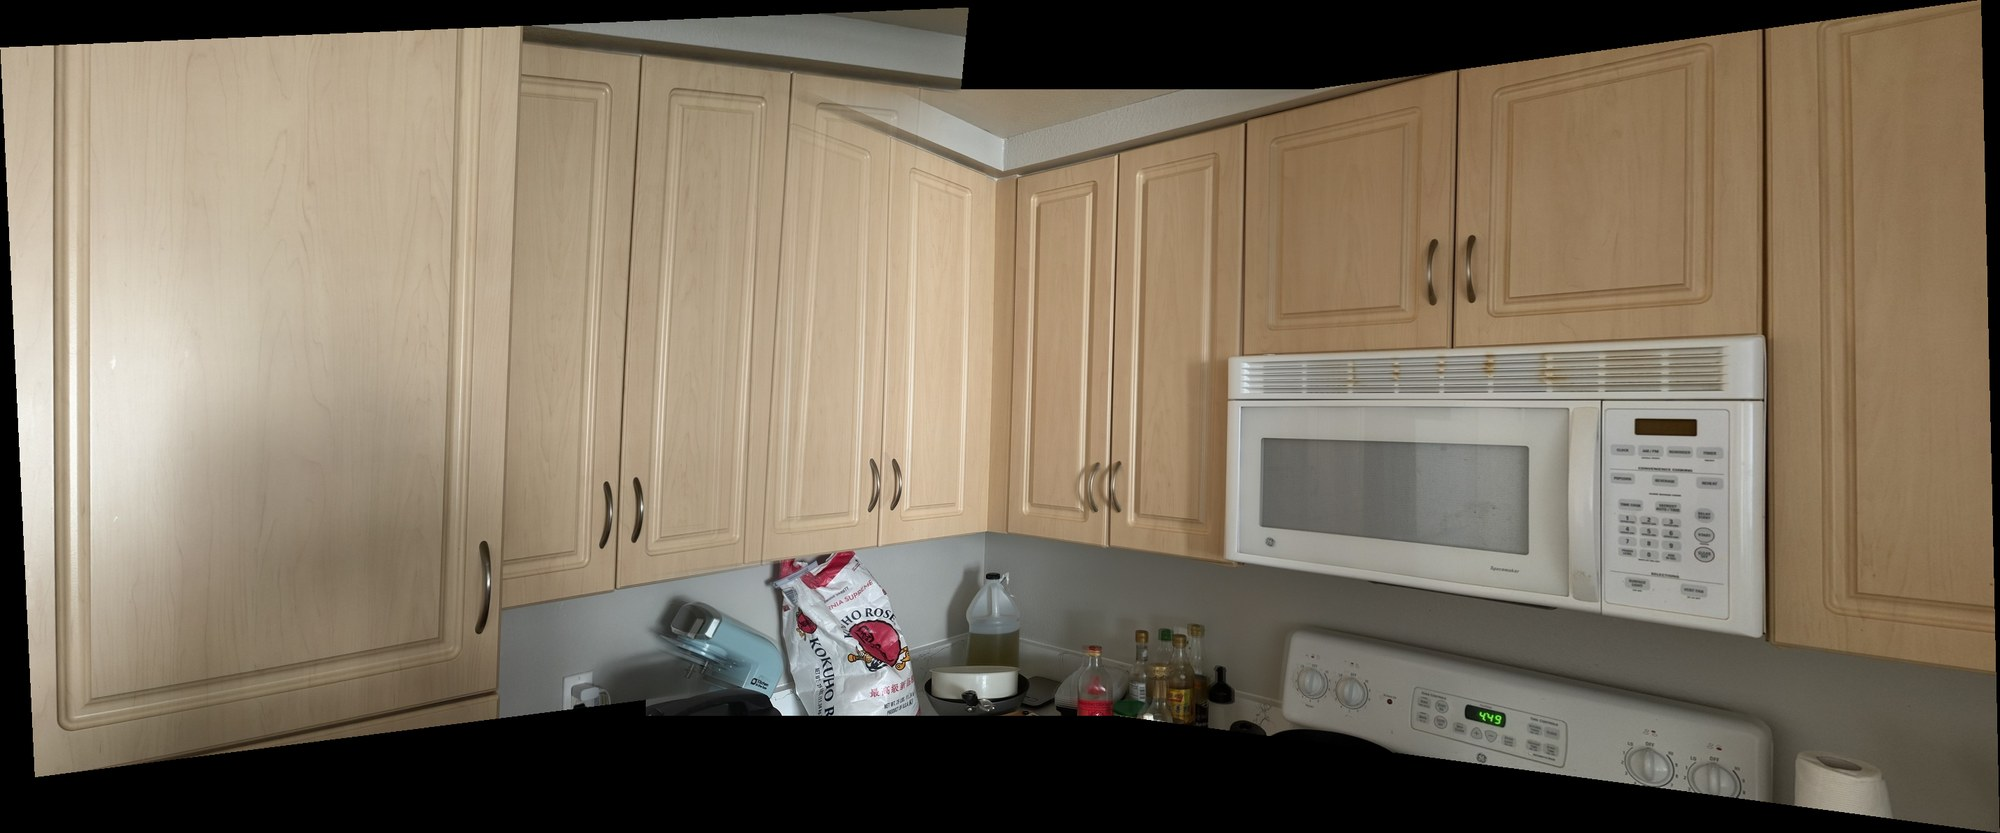
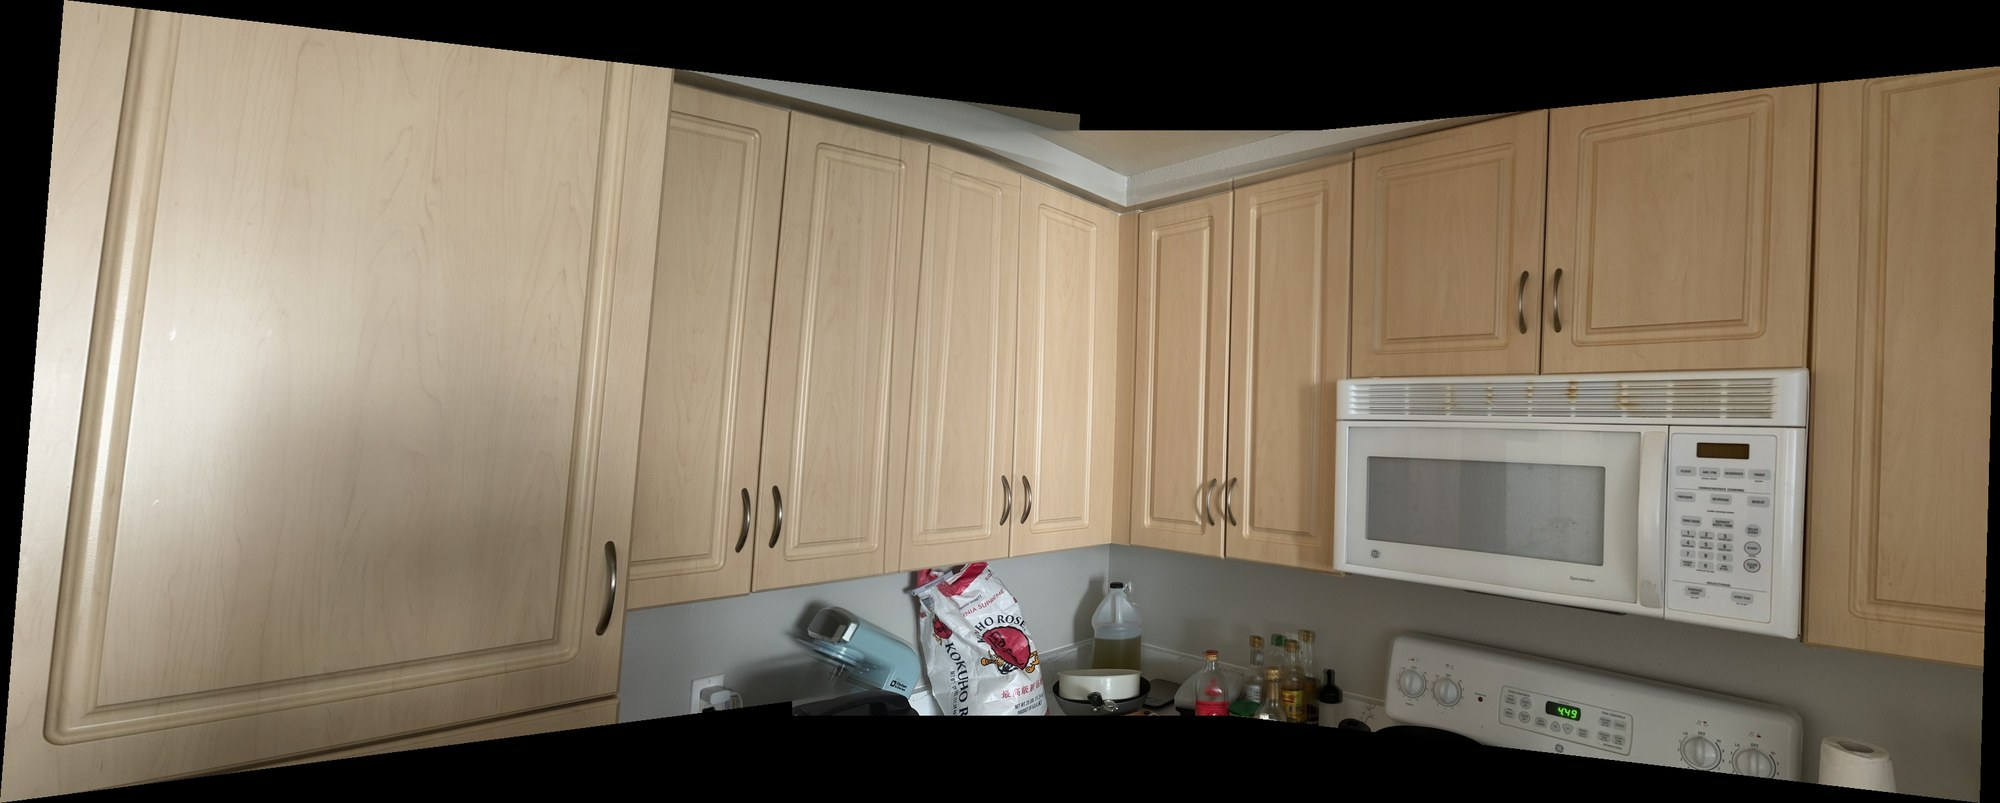
Project 4A: hand-picked correspondences

diff --git a/cs180/project4a/index.html b/cs180/project4a/index.html
@@ -89,9 +89,9 @@
 \[ \underbrace{\begin{bmatrix} x_1 & y_1 & 1 & 0 & 0 & 0 & -x_1x_1' & -y_1x_1' \\ 0 & 0 & 0 & x_1 & y_1 & 1 & -x_1y_1' & -y_1y_1' \\ & & & & \vdots & & & \\ x_n & y_n & 1 & 0 & 0 & 0 & -x_nx_n' & -y_nx_n' \\ 0 & 0 & 0 & x_n & y_n & 1 & -x_ny_n' & -y_ny_n' \end{bmatrix}}_{A \;(2n \times 8)} \begin{bmatrix} a \\ \vdots \\ h \end{bmatrix} = \underbrace{\begin{bmatrix} x_1' \\ y_1' \\ \vdots \\ x_n' \\ y_n' \end{bmatrix}}_{b} \]
 <figure class="wide"><img src="assets/mosaic2_left_center_points.jpg" alt="correspondences between the gate left and center images"></figure>
 <p>Next, for the real numbers, this is the full system \([A \mid b]\) for these 8 pairs:</p>
-\[ \left[\begin{array}{rrrrrrrr|r} 850.84 & 475.69 & 1 & 0 & 0 & 0 & -327539.37 & -183121.62 & 384.96 \\ 0 & 0 & 0 & 850.84 & 475.69 & 1 & -409756.04 & -229087.55 & 481.59 \\ 816.56 & 1135.06 & 1 & 0 & 0 & 0 & -250349.13 & -347998.05 & 306.59 \\ 0 & 0 & 0 & 816.56 & 1135.06 & 1 & -889764.60 & -1236818.13 & 1089.65 \\ 516.87 & 862.12 & 1 & 0 & 0 & 0 & -13924.48 & -23225.51 & 26.94 \\ 0 & 0 & 0 & 516.87 & 862.12 & 1 & -447423.35 & -746285.56 & 865.64 \\ 825.18 & 835.76 & 1 & 0 & 0 & 0 & -278803.57 & -282378.23 & 337.87 \\ 0 & 0 & 0 & 825.18 & 835.76 & 1 & -666151.31 & -674692.33 & 807.28 \\ 861.91 & 670.04 & 1 & 0 & 0 & 0 & -327672.32 & -254729.11 & 380.17 \\ 0 & 0 & 0 & 861.91 & 670.04 & 1 & -564275.24 & -438661.79 & 654.68 \\ 752.58 & 998.69 & 1 & 0 & 0 & 0 & -196746.99 & -261087.53 & 261.43 \\ 0 & 0 & 0 & 752.58 & 998.69 & 1 & -731191.68 & -970307.23 & 971.58 \\ 552.19 & 941.05 & 1 & 0 & 0 & 0 & -32485.34 & -55361.97 & 58.83 \\ 0 & 0 & 0 & 552.19 & 941.05 & 1 & -521548.98 & -888831.14 & 944.51 \\ 735.47 & 1074.06 & 1 & 0 & 0 & 0 & -174321.10 & -254573.70 & 237.02 \\ 0 & 0 & 0 & 735.47 & 1074.06 & 1 & -771383.00 & -1126506.35 & 1048.83 \end{array}\right] \]
+\[ \left[\begin{array}{rrrrrrrr|r} 597 & 348 & 1 & 0 & 0 & 0 & -75819 & -44196 & 127 \\ 0 & 0 & 0 & 597 & 348 & 1 & -184473 & -107532 & 309 \\ 597 & 472 & 1 & 0 & 0 & 0 & -71043 & -56168 & 119 \\ 0 & 0 & 0 & 597 & 472 & 1 & -263874 & -208624 & 442 \\ 745 & 487 & 1 & 0 & 0 & 0 & -209345 & -136847 & 281 \\ 0 & 0 & 0 & 745 & 487 & 1 & -356855 & -233273 & 479 \\ 745 & 557 & 1 & 0 & 0 & 0 & -207855 & -155403 & 279 \\ 0 & 0 & 0 & 745 & 557 & 1 & -407515 & -304679 & 547 \\ 538 & 710 & 1 & 0 & 0 & 0 & -31742 & -41890 & 59 \\ 0 & 0 & 0 & 538 & 710 & 1 & -376062 & -496290 & 699 \\ 600 & 1085 & 1 & 0 & 0 & 0 & -57000 & -103075 & 95 \\ 0 & 0 & 0 & 600 & 1085 & 1 & -652200 & -1179395 & 1087 \\ 752 & 930 & 1 & 0 & 0 & 0 & -201536 & -249240 & 268 \\ 0 & 0 & 0 & 752 & 930 & 1 & -679808 & -840720 & 904 \\ 712 & 1083 & 1 & 0 & 0 & 0 & -169456 & -257754 & 238 \\ 0 & 0 & 0 & 712 & 1083 & 1 & -772520 & -1175055 & 1085 \end{array}\right] \]
 <p>We solve this using least squares (<code>np.linalg.lstsq</code>), which finds the best \(h\), the one that makes the total squared error \(\lVert Ah - b \rVert^2\) as small as possible. This gives the homography:</p>
-\[ H = \begin{bmatrix} 1.55754 & -0.14138 & -648.12329 \\ 0.46293 & 1.36211 & -279.28968 \\ 0.00073 & -0.00008 & 1 \end{bmatrix} \]
+\[ H = \begin{bmatrix} 1.21876 & -0.04337 & -571.19967 \\ 0.16041 & 1.10860 & -129.22083 \\ 0.00020 & -0.00004 & 1 \end{bmatrix} \]
 
 <!-- A2 end -->
 
@@ -140,17 +140,17 @@
 <figure class="wide"><img src="assets/auto_mosaic3_right_center.jpg" alt="automatic matches, courtyard right to center"></figure>
 <h3>Homographies</h3>
 <h3>Kitchen, left → center</h3>
-\[ H = \begin{bmatrix} 1.20748 & -0.06261 & -925.14860 \\ -0.06025 & 1.29628 & -59.48260 \\ 0.00011 & 0.00013 & 1 \end{bmatrix} \]
+\[ H = \begin{bmatrix} 1.46621 & -0.11033 & -1117.36687 \\ 0.13781 & 1.37117 & -199.63772 \\ 0.00037 & 0 & 1 \end{bmatrix} \]
 <h3>Kitchen, right → center</h3>
-\[ H = \begin{bmatrix} 0.69973 & -0.01021 & 446.57084 \\ -0.12876 & 0.87518 & 68.59086 \\ -0.00027 & -0.00002 & 1 \end{bmatrix} \]
+\[ H = \begin{bmatrix} 0.77596 & 0.02630 & 434.62686 \\ -0.08997 & 0.95476 & 35.74160 \\ -0.00022 & 0.00003 & 1 \end{bmatrix} \]
 <h3>Gate, left → center</h3>
-\[ H = \begin{bmatrix} 1.55754 & -0.14138 & -648.12329 \\ 0.46293 & 1.36211 & -279.28968 \\ 0.00073 & -0.00008 & 1 \end{bmatrix} \]
+\[ H = \begin{bmatrix} 1.21876 & -0.04337 & -571.19967 \\ 0.16041 & 1.10860 & -129.22083 \\ 0.00020 & -0.00004 & 1 \end{bmatrix} \]
 <h3>Gate, right → center</h3>
-\[ H = \begin{bmatrix} 0.61334 & 0.05751 & 388.07630 \\ -0.28870 & 0.85377 & 86.06803 \\ -0.00041 & -0.00003 & 1 \end{bmatrix} \]
+\[ H = \begin{bmatrix} 0.74529 & 0.03676 & 398.53887 \\ -0.22469 & 0.91456 & 55.88121 \\ -0.00029 & -0.00001 & 1 \end{bmatrix} \]
 <h3>Courtyard, left → center</h3>
-\[ H = \begin{bmatrix} 4.42492 & -0.32560 & -1803.17840 \\ 1.53614 & 3.13889 & -1184.68299 \\ 0.00290 & -0.00008 & 1 \end{bmatrix} \]
+\[ H = \begin{bmatrix} 2.95271 & -0.18054 & -1172.58981 \\ 0.94025 & 2.25182 & -741.99591 \\ 0.00166 & -0.00003 & 1 \end{bmatrix} \]
 <h3>Courtyard, right → center</h3>
-\[ H = \begin{bmatrix} 0.16613 & -0.00094 & 452.33410 \\ -0.34333 & 0.65162 & 178.61415 \\ -0.00066 & -0.00006 & 1 \end{bmatrix} \]
+\[ H = \begin{bmatrix} 0.13495 & 0.01950 & 457.88542 \\ -0.38634 & 0.65630 & 195.75122 \\ -0.00070 & -0.00001 & 1 \end{bmatrix} \]
 <h3>Student ID card, rectification</h3>
 \[ H = \begin{bmatrix} -0.07379 & 1.21880 & -108.26483 \\ -0.68991 & 0.23695 & 416.04047 \\ -0.00020 & 0.00118 & 1 \end{bmatrix} \]
 <h3>Flyer, rectification</h3>
